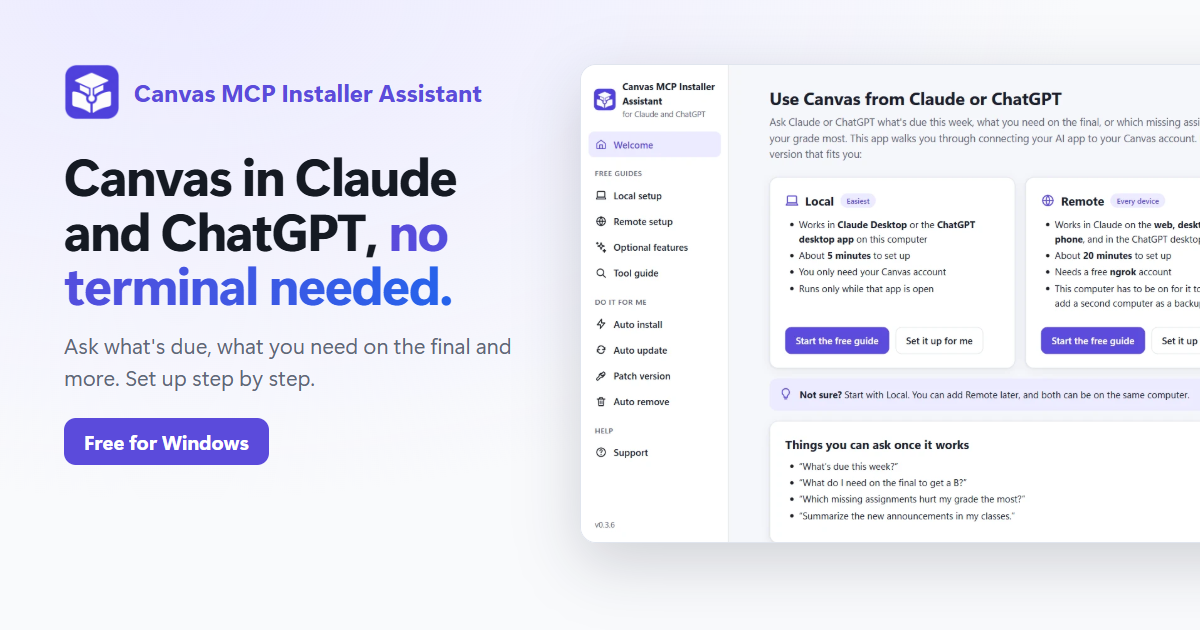
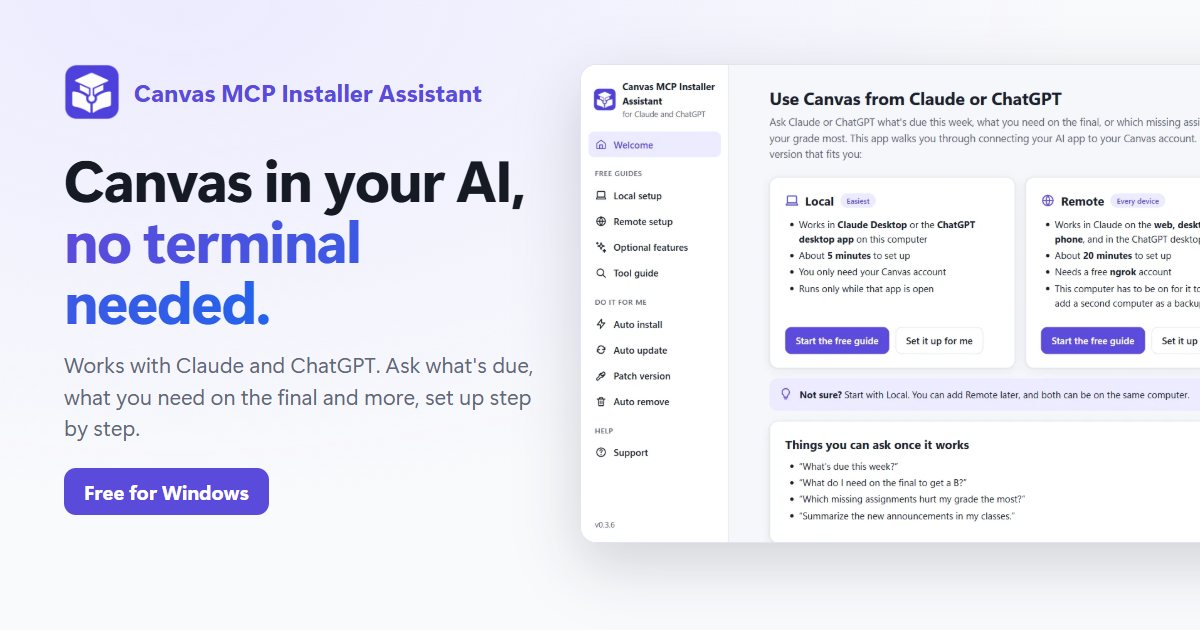
App page headline: Canvas in your AI

Changed region(s): [[0.0308, 0.2413, 0.4317, 0.5127], [0.0308, 0.5429, 0.4625, 0.8444]]

diff --git a/docs/app/index.html b/docs/app/index.html
@@ -8,7 +8,7 @@
 <link rel="icon" type="image/png" href="../favicon.png">
 <link rel="apple-touch-icon" href="../icon.png">
 <meta property="og:type" content="website">
-<meta property="og:title" content="Canvas MCP Installer Assistant: Canvas in Claude and ChatGPT, no terminal needed">
+<meta property="og:title" content="Canvas MCP Installer Assistant: Canvas in your AI, no terminal needed">
 <meta property="og:description" content="A free Windows app that connects Claude or the ChatGPT desktop app to your Canvas account step by step. Ask what's due, what you need on the final, and more.">
 <meta property="og:url" content="https://fireiscoolsolo.github.io/canvas-lms-mcp-local/app/">
 <meta property="og:image" content="https://fireiscoolsolo.github.io/canvas-lms-mcp-local/app/img/og.png">
@@ -109,8 +109,8 @@ footer{border-top:1px solid var(--border);padding:36px 0;color:var(--muted);font
 </div></nav>
 
 <header class="hero"><div class="wrap">
-  <span class="pill">Free Windows app · <b>Claude</b> + <b>ChatGPT</b> + Canvas</span>
-  <h1>Canvas in Claude and ChatGPT,<br><span class="grad">no terminal needed.</span></h1>
+  <span class="pill">Free Windows app · works with <b>Claude</b> and <b>ChatGPT</b></span>
+  <h1>Canvas in your AI,<br><span class="grad">no terminal needed.</span></h1>
   <p class="lede">The Canvas MCP Installer Assistant connects Claude or the ChatGPT desktop app to your Canvas account with pictures and a check after every step. Then just ask what's due this week, what you need on the final, or which missing assignment hurts your grade most.</p>
   <div class="cta">
     <a class="btn primary" data-download href="https://github.com/Fireiscoolsolo/canvas-lms-mcp-local/releases/latest"><svg class="ico" viewBox="0 0 24 24" fill="none" stroke="currentColor" stroke-width="2" stroke-linecap="round" stroke-linejoin="round" aria-hidden="true"><path d="M12 3v12"/><path d="m7 10 5 5 5-5"/><path d="M4 17v3a1 1 0 0 0 1 1h14a1 1 0 0 0 1-1v-3"/></svg>Download for Windows<span class="v"></span></a>
